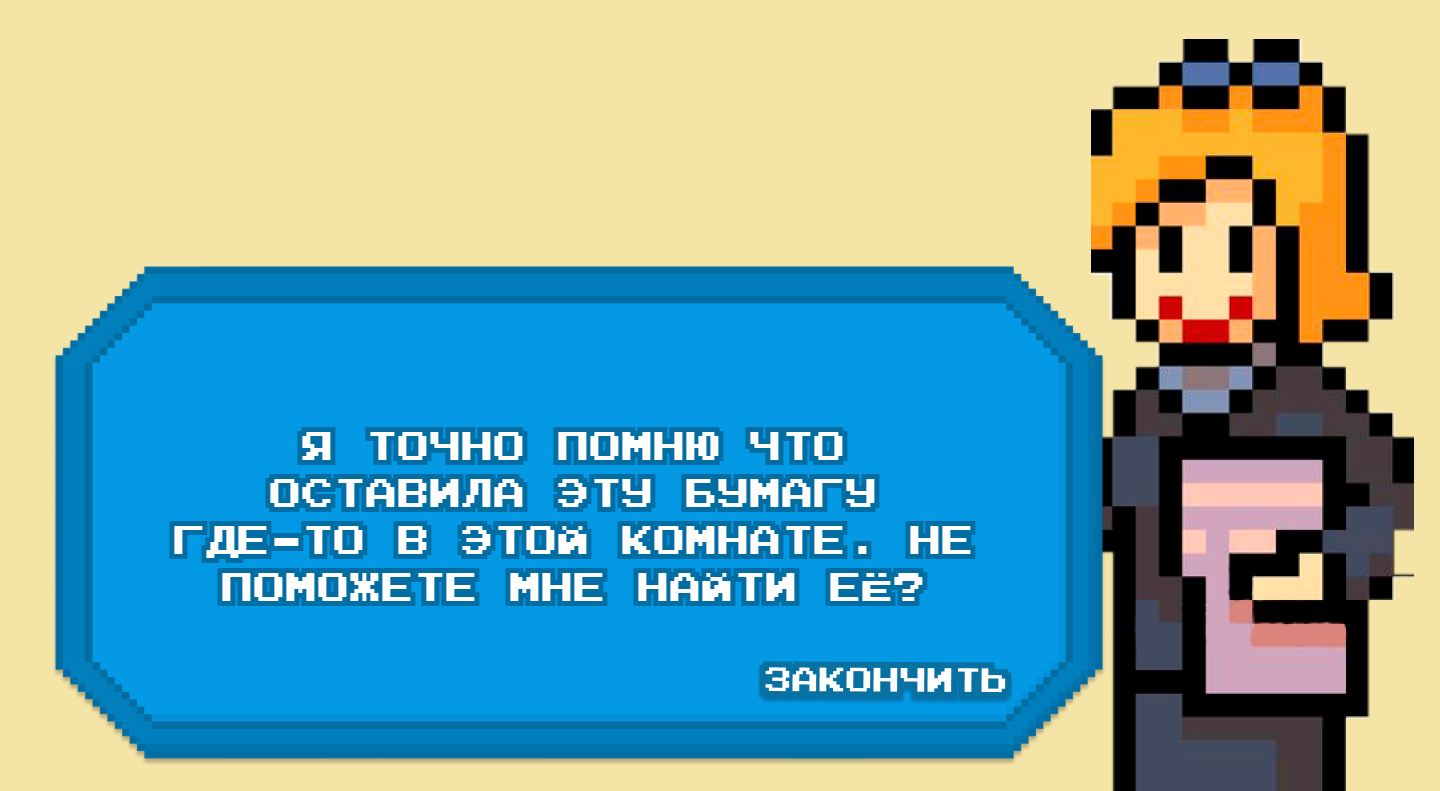
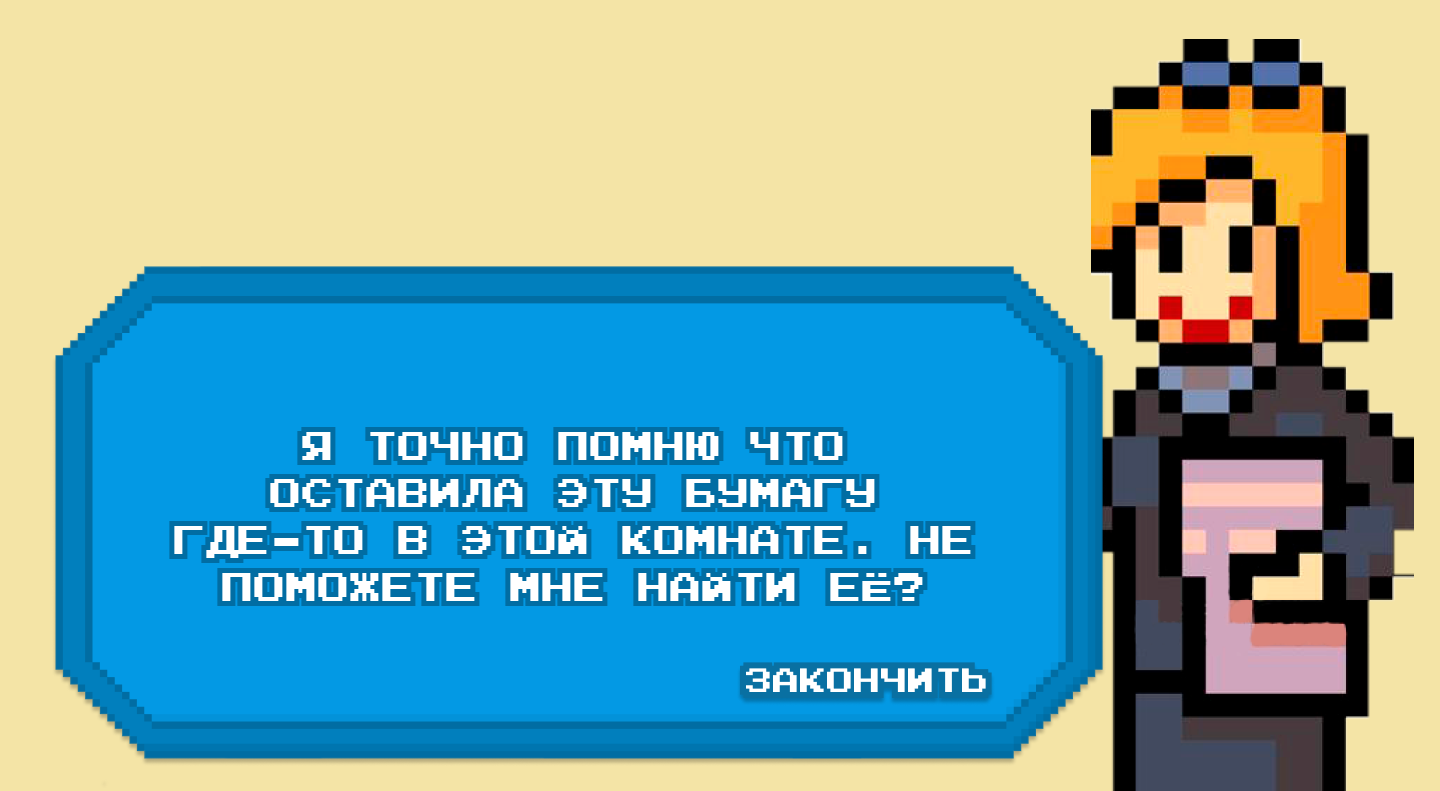
VERSION #

Changed region(s): [[0.5, 0.8192, 0.7188, 0.9102]]

diff --git a/MATMEH QUEST/View.cs b/MATMEH QUEST/View.cs
@@ -32,6 +32,7 @@ namespace MATMEH_QUEST
         private bool missionItem1;
         private bool flagM;
         private bool tk;
+        private double proportion;
         private SoundPlayer music;
         private Controller Controller;
         public Form1()
@@ -45,6 +46,7 @@ namespace MATMEH_QUEST
             isMainMenu = true;
             isTutorial1 = true;
             isTutorial2 = true;
+            isTutorial3 = true;
             isMenu = false;
             isDialog1 = true;
             isDialog2 = true;
@@ -60,20 +62,32 @@ namespace MATMEH_QUEST
             missionItem = false;
             flagM = true;
             tk = false;
+            proportion = Width / Height;
             music = new SoundPlayer(Resources._8_bit_Dendy___Smooth_Criminal__musicpro_me_);
             music.Play();
+            StartPosition = FormStartPosition.CenterScreen;
             WindowState = FormWindowState.Maximized;
+            FormBorderStyle = FormBorderStyle.None;
             Controller = new Controller(Size.Width);
             DoubleBuffered = true;
             KeyDown += (sender, args) =>
             {
                 Controller.Action(args);
+                Invalidate();
             };
+            Resize += (sender, args) =>
+            {
+                Control control = (Control)sender;
+                control.Width = control.Height * 2;
+                Invalidate();
+            };
+
         }
 
         protected override void OnPaint(PaintEventArgs e)
         {
             var graphics = e.Graphics;
+            GC.Collect();
             if (isDemo)
             {
                 BackgroundImage = Resources.демоверсия;
@@ -82,58 +96,48 @@ namespace MATMEH_QUEST
                 PaintMainMenu();
             else if (isTutorial1)
             {
-                PaintTrain(graphics, Resources.Обучение_1, 250, 1040, NextOnClick);
+                PaintDialog(graphics, Resources.Обучение_1, 90, 15, 23,80, 23, 17, NextOnClick);
             }
             else if (isTutorial2)
             {
-                PaintTrain(graphics, Resources.Обучение_2, 250, 1035,  NextOnClick);
+                PaintDialog(graphics, Resources.Обучение_2, 90, 15, 23, 80, 23, 17, NextOnClick);
             }
             else if (isTutorial3)
             {
-                PaintTrain(graphics, Resources.Обучение_3, 430, 870, OverButtonOnClick);
+                PaintDialog(graphics, Resources.Обучение_3, 90, 15, 23, 78, 42, 20, OverButtonOnClick);
             }
-            else if (isMenu)
+            else if (isMenu) 
             {
                 PaintMenu(graphics);
             }
             else if (Controller.Game.FlagDecan)
             {
                 if (isDialog1)
-                    PaintDialogWithD(graphics, Resources.Деканат_диалог1, 190, 880, Dialog1OnClick);
-                else if(isDialog2)
-                    PaintDialogWithD(graphics, Resources.Деканат_диалог2, 190, 880, Dialog2OnClick);
+                    PaintDialog(graphics, Resources.Деканат_диалог1, 179, 20, 20, 118, 28, 62, Dialog1OnClick);
+                else if (isDialog2)
+                    PaintDialog(graphics, Resources.Деканат_диалог2, 179, 20, 20, 118, 28, 62, Dialog2OnClick);
                 else if (isDialog3)
-                    PaintDialogWithD(graphics, Resources.Деканат_диалог3, 190, 880, Dialog3OnClick);
+                    PaintDialog(graphics, Resources.Деканат_диалог3, 179, 20, 20, 118, 28, 62, Dialog3OnClick);
                 else if (isDialog4)
-                    PaintDialogWithD(graphics, Resources.Деканат_диалог4, 280, 810, Dialog4OnClick);
+                    PaintDialog(graphics, Resources.Деканат_диалог4, 179, 20, 20, 116, 48, 69, Dialog4OnClick);
             }
             else if (Controller.Game.FlagMatan)
             {
                 if (isDialogM1)
-                {
-                    PaintDialogWithM(graphics, Resources._601_диалог1, 190, 880, DialogM1OnClick);
-                }
+                    PaintDialog(graphics, Resources._601_диалог1, 179, 20, 20, 118, 28, 62, DialogM1OnClick);
                 else if (isDialogM2)
-                    PaintDialogWithM(graphics, Resources._601_диалог2, 190, 880, DialogM2OnClick);
+                    PaintDialog(graphics, Resources._601_диалог2, 179, 20, 20, 118, 28, 62, DialogM2OnClick);
                 else if (isDialogM3)
-                    PaintDialogWithM(graphics, Resources._601_диалог3, 190, 880, DialogM3OnClick);
+                    PaintDialog(graphics, Resources._601_диалог3, 179, 20, 20, 118, 28, 62, DialogM3OnClick);
                 else if (isDialogM4)
-                    PaintDialogWithM(graphics, Resources._601_диалог4, 190, 880, DialogM4OnClick);
+                    PaintDialog(graphics, Resources._601_диалог4, 179, 20, 20, 118, 28, 62, DialogM4OnClick);
                 else if (isDialogM5)
-                    PaintDialogWithM(graphics, Resources._601_диалог5, 290, 780, DialogM5OnClick);
+                    PaintDialog(graphics, Resources._601_диалог5, 179, 20, 20, 116, 48, 69, DialogM5OnClick);
             }
             else
             {
-                var menuButton = new PictureBox()
-                {
-                    Image = Resources.меню,
-                    BackColor = Color.Transparent,
-                    SizeMode = PictureBoxSizeMode.Zoom,
-                    Location =  new Point(20, 0)
-                };
-                menuButton.Click += MenuButtonOnClick;
-                Controls.Add(menuButton);
-                menuButton.Update();
+                PaintMenuButton();
+                GC.Collect();
                 if (isMenu)
                 {
                     PaintMenu(graphics);
@@ -143,15 +147,10 @@ namespace MATMEH_QUEST
                     PaintWorld(graphics);
                     if (flagM)
                     {
-                        if (Controller.Game.World.Location.X > -5600)
-                        {
-                            PaintMission(graphics, new Bitmap(Resources.задание_1, new Size(290, 120)), 0);
-                        }
-                        else
-                        {
-
-                            PaintMission(graphics, new Bitmap(Resources.задание_2, new Size(290, 120)), 0);
-                        }
+                        PaintMission(graphics,
+                            Controller.Game.World.Location.X > -5600
+                                ? new Bitmap(Resources.задание_1, new Size(290, 120))
+                                : new Bitmap(Resources.задание_2, new Size(290, 120)), 0);
                     }
                 }
                 else if(Controller.Game.Room != null)
@@ -221,7 +220,7 @@ namespace MATMEH_QUEST
                         Controls.Clear();
                         Invalidate();
                     };
-                    var l = new PictureBox()
+                    var l = new PictureBox
                     {
                         Image = Resources.Табличка,
                         Location = new Point(1000, 650),
@@ -259,33 +258,27 @@ namespace MATMEH_QUEST
             button.Click += eventAction;
         }
 
-        private void PaintDialogWithD(Graphics graphics, Bitmap image, int  width, int x, EventHandler eventAction)
-        {
-            BackgroundImage = image;
-            BackgroundImageLayout = ImageLayout.Stretch;
-            var button = new Button
-            {
-                BackColor = Color.Transparent,
-                Size = new Size(width, 65),
-                Location = new Point(x, 655),
-                FlatStyle = FlatStyle.Popup,
-                FlatAppearance =
-                {
-                    BorderSize = 0
-                }
-            };
-            Controls.Add(button);
-            DrawButton(graphics, button);
-            button.Update();
-            button.Click += eventAction;
-        }
-
         private void MenuButtonOnClick(object sender, EventArgs e)
         {
             Controls.Clear();
             isMenu = true;
             Invalidate();
         }
+
+        private void PaintMenuButton()
+        {
+            var menuButton = new PictureBox()
+            {
+                Image = Resources.меню,
+                BackColor = Color.Transparent,
+                SizeMode = PictureBoxSizeMode.Zoom,
+                Location = new Point(20, 0)
+            };
+            menuButton.Click += MenuButtonOnClick;
+            Controls.Add(menuButton);
+            menuButton.Update();
+        }
+
 
         private void PaintMenu(Graphics graphics)
         {
@@ -338,13 +331,6 @@ namespace MATMEH_QUEST
             exit.Click += ExitOnClick;
         }
 
-        private void ReturnButtonOnClick(object sender, EventArgs e)
-        {
-            isMenu = false;
-            Controls.Clear();
-            Invalidate();
-        }
-
         private void PaintMission(Graphics graphics, Bitmap missionTable, int dy)
         {
             graphics.DrawImage(missionTable,
@@ -377,23 +363,41 @@ namespace MATMEH_QUEST
             Invalidate();
         }
 
-        private void PaintTrain(Graphics graphics, Bitmap image, int width, int x, EventHandler eventAction)
+        private void PaintDialog(Graphics graphics, Bitmap image, int p1, int p2, int p3, int c1, int c2, int c3, EventHandler eventAction)
         {
-            BackColor = Color.SandyBrown;
-            BackgroundImage = image;
-            BackgroundImageLayout = ImageLayout.Zoom;
+            var table = new TableLayoutPanel();
+            table.RowStyles.Clear();
+            table.ColumnStyles.Clear();
+            table.RowStyles.Add(new RowStyle(SizeType.Percent, p1));
+            table.RowStyles.Add(new RowStyle(SizeType.Percent, p2));
+            table.RowStyles.Add(new RowStyle(SizeType.Percent, p3));
+            table.ColumnStyles.Add(new ColumnStyle(SizeType.Percent, c1));
+            table.ColumnStyles.Add(new ColumnStyle(SizeType.Percent, c2));
+            table.ColumnStyles.Add(new ColumnStyle(SizeType.Percent, c3));
+            table.BackColor = Color.SandyBrown;
+            table.BackgroundImage = image;
+            table.BackgroundImageLayout = ImageLayout.Stretch;
+
             var button = new Button
             {
                 BackColor = Color.Transparent,
-                Size = new Size(width, 90),
-                Location = new Point(x, 555),
                 FlatStyle = FlatStyle.Popup,
                 FlatAppearance =
                 {
                     BorderSize = 0
-                }
+                },
+                AutoSizeMode = AutoSizeMode.GrowOnly
             };
-            Controls.Add(button);
+            button.Dock = DockStyle.Fill;
+
+            table.Controls.Add(new Control(), 0, 0);
+            table.Controls.Add(button, 1, 1);
+            table.Controls.Add(new Control(), 2, 2);
+
+            table.Dock = DockStyle.Fill;
+            Controls.Add(table);
+            table.Update();
+
             DrawButton(graphics, button);
             button.Update();
             button.Click += eventAction;
@@ -402,8 +406,8 @@ namespace MATMEH_QUEST
         private void PaintMainMenu()
         {
             var backgroundColor = Color.FromArgb(145, 215, 254);
-            BackColor = backgroundColor;
             var table = new TableLayoutPanel();
+            table.BackColor = backgroundColor;
             table.RowStyles.Clear();
             table.ColumnStyles.Clear();
             table.RowStyles.Add(new RowStyle(SizeType.Percent, 50));
@@ -528,6 +532,7 @@ namespace MATMEH_QUEST
                 isTutorial3 = true;
             }
             Controls.Clear();
+            Update();
             Invalidate();
         }
 
@@ -538,10 +543,19 @@ namespace MATMEH_QUEST
             Invalidate();
         }
 
+        private void ReturnButtonOnClick(object sender, EventArgs e)
+        {
+            isMenu = false;
+            Controls.Clear();
+            Update();
+            Invalidate();
+        }
+
         private void Dialog1OnClick(object sender, EventArgs e)
         {
             Controls.Clear();
             isDialog1 = false;
+            Update();
             Invalidate();
         }
 
@@ -549,6 +563,7 @@ namespace MATMEH_QUEST
         {
             Controls.Clear();
             isDialog2 = false;
+            Update();
             Invalidate();
         }
 
@@ -556,6 +571,7 @@ namespace MATMEH_QUEST
         {
             Controls.Clear();
             isDialog3 = false;
+            Update();
             Invalidate();
         }
 
@@ -567,6 +583,7 @@ namespace MATMEH_QUEST
             isDialog4 = false;
             Controller.Game.FlagDecan = false;
             missionItem = true;
+            Update();
             Invalidate();
         }
 
@@ -574,6 +591,7 @@ namespace MATMEH_QUEST
         {
             Controls.Clear();
             isDialogM1 = false;
+            Update();
             Invalidate();
         }
 
@@ -581,6 +599,7 @@ namespace MATMEH_QUEST
         {
             Controls.Clear();
             isDialogM2 = false;
+            Update();
             Invalidate();
         }
 
@@ -588,6 +607,7 @@ namespace MATMEH_QUEST
         {
             Controls.Clear();
             isDialogM3 = false;
+            Update();
             Invalidate();
         }
 
@@ -595,13 +615,16 @@ namespace MATMEH_QUEST
         {
             Controls.Clear();
             isDialogM4 = false;
+            Update();
             Invalidate();
         }
+       
         private void DialogM5OnClick(object sender, EventArgs e)
         {
             flagM = false;
             Controls.Clear();
             isDemo = true;
+            Update();
             Invalidate();
         }
 
